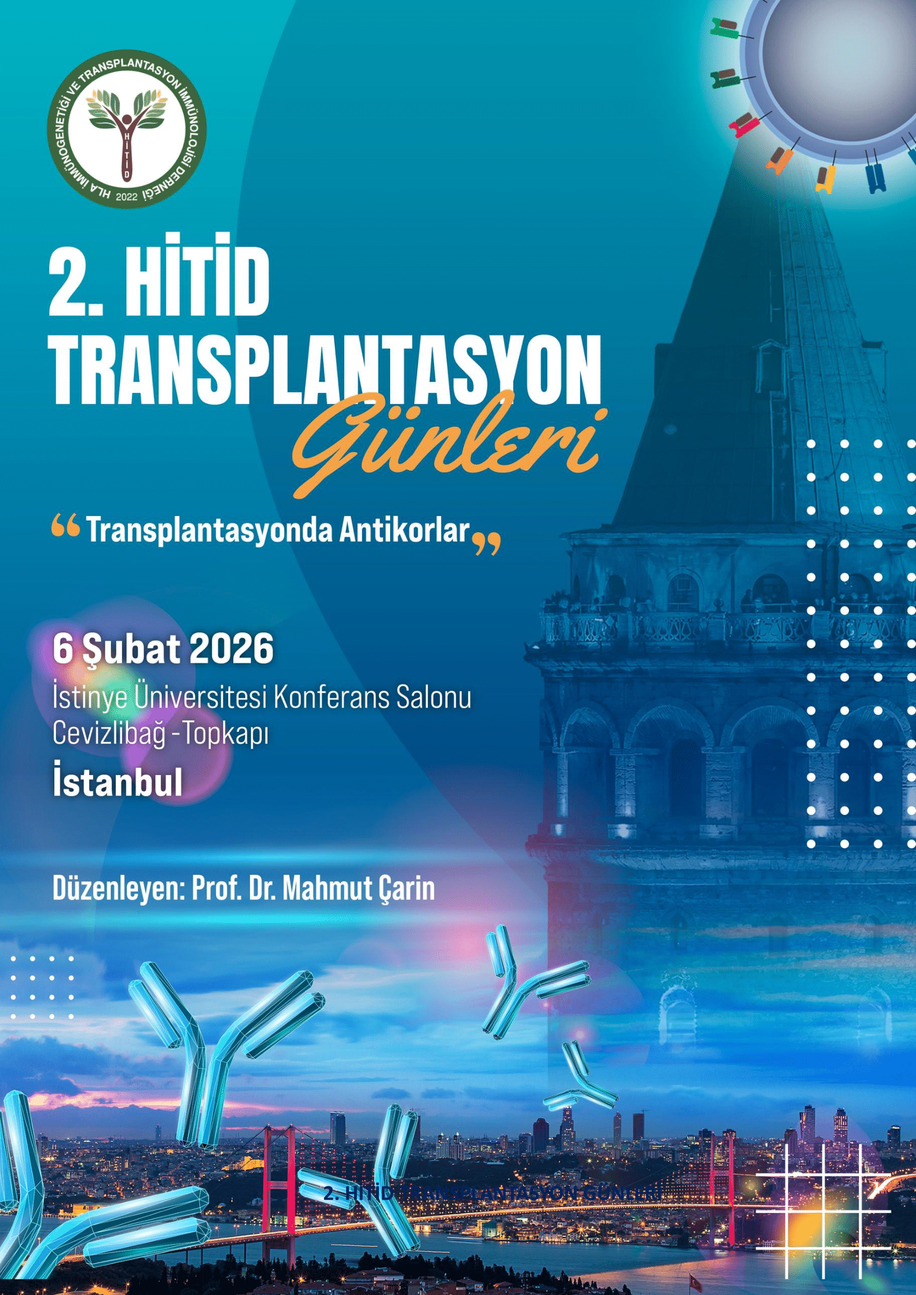
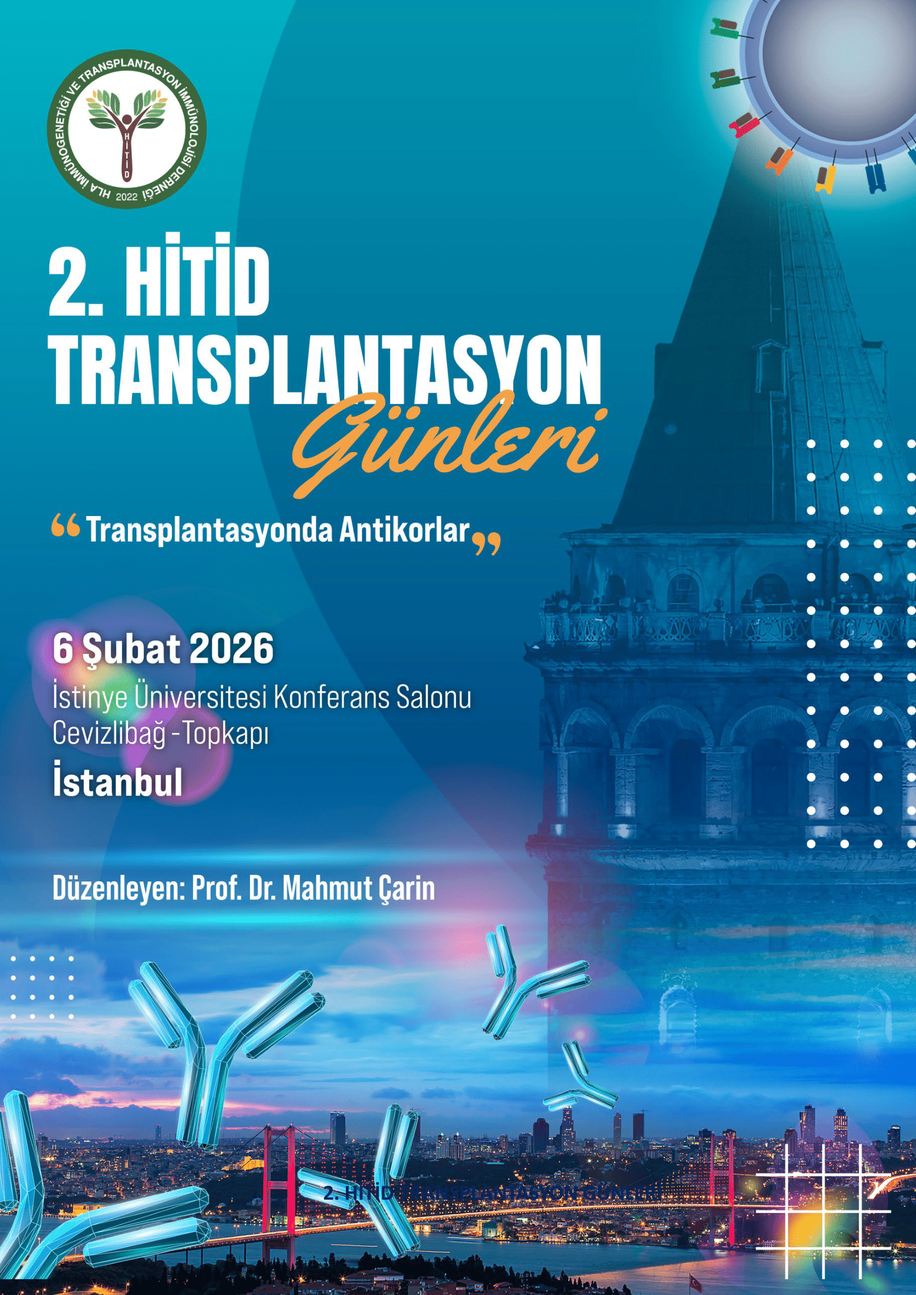
program revizesi

diff --git a/duyurular/2-hitid-transplantasyon-gunleri-6-subat-2026.php b/duyurular/2-hitid-transplantasyon-gunleri-6-subat-2026.php
@@ -50,10 +50,10 @@
                                     
                                     <h5 class="mt-4 mb-3">Program Detayları:</h5>
                                     <div class="post-feat-img serv-detail-img brd-rd10 position-relative overflow-hidden w-100 mb-4">
-                                        <img class="img-fluid w-100" src="/doc/duyurular/transplantasyonda-antikorlar-1.png" alt="Program - Sayfa 1">
+                                        <img class="img-fluid w-100" src="/doc/duyurular/transplantasyonda-antikorlar-1.png?v=1123" alt="Program - Sayfa 1">
                                     </div>
                                     <div class="post-feat-img serv-detail-img brd-rd10 position-relative overflow-hidden w-100 mb-4">
-                                        <img class="img-fluid w-100" src="/doc/duyurular/transplantasyonda-antikorlar-2.png" alt="Program - Sayfa 2">
+                                        <img class="img-fluid w-100" src="/doc/duyurular/transplantasyonda-antikorlar-2.png?v=1123" alt="Program - Sayfa 2">
                                     </div>
                                 </div>
                             </div>
